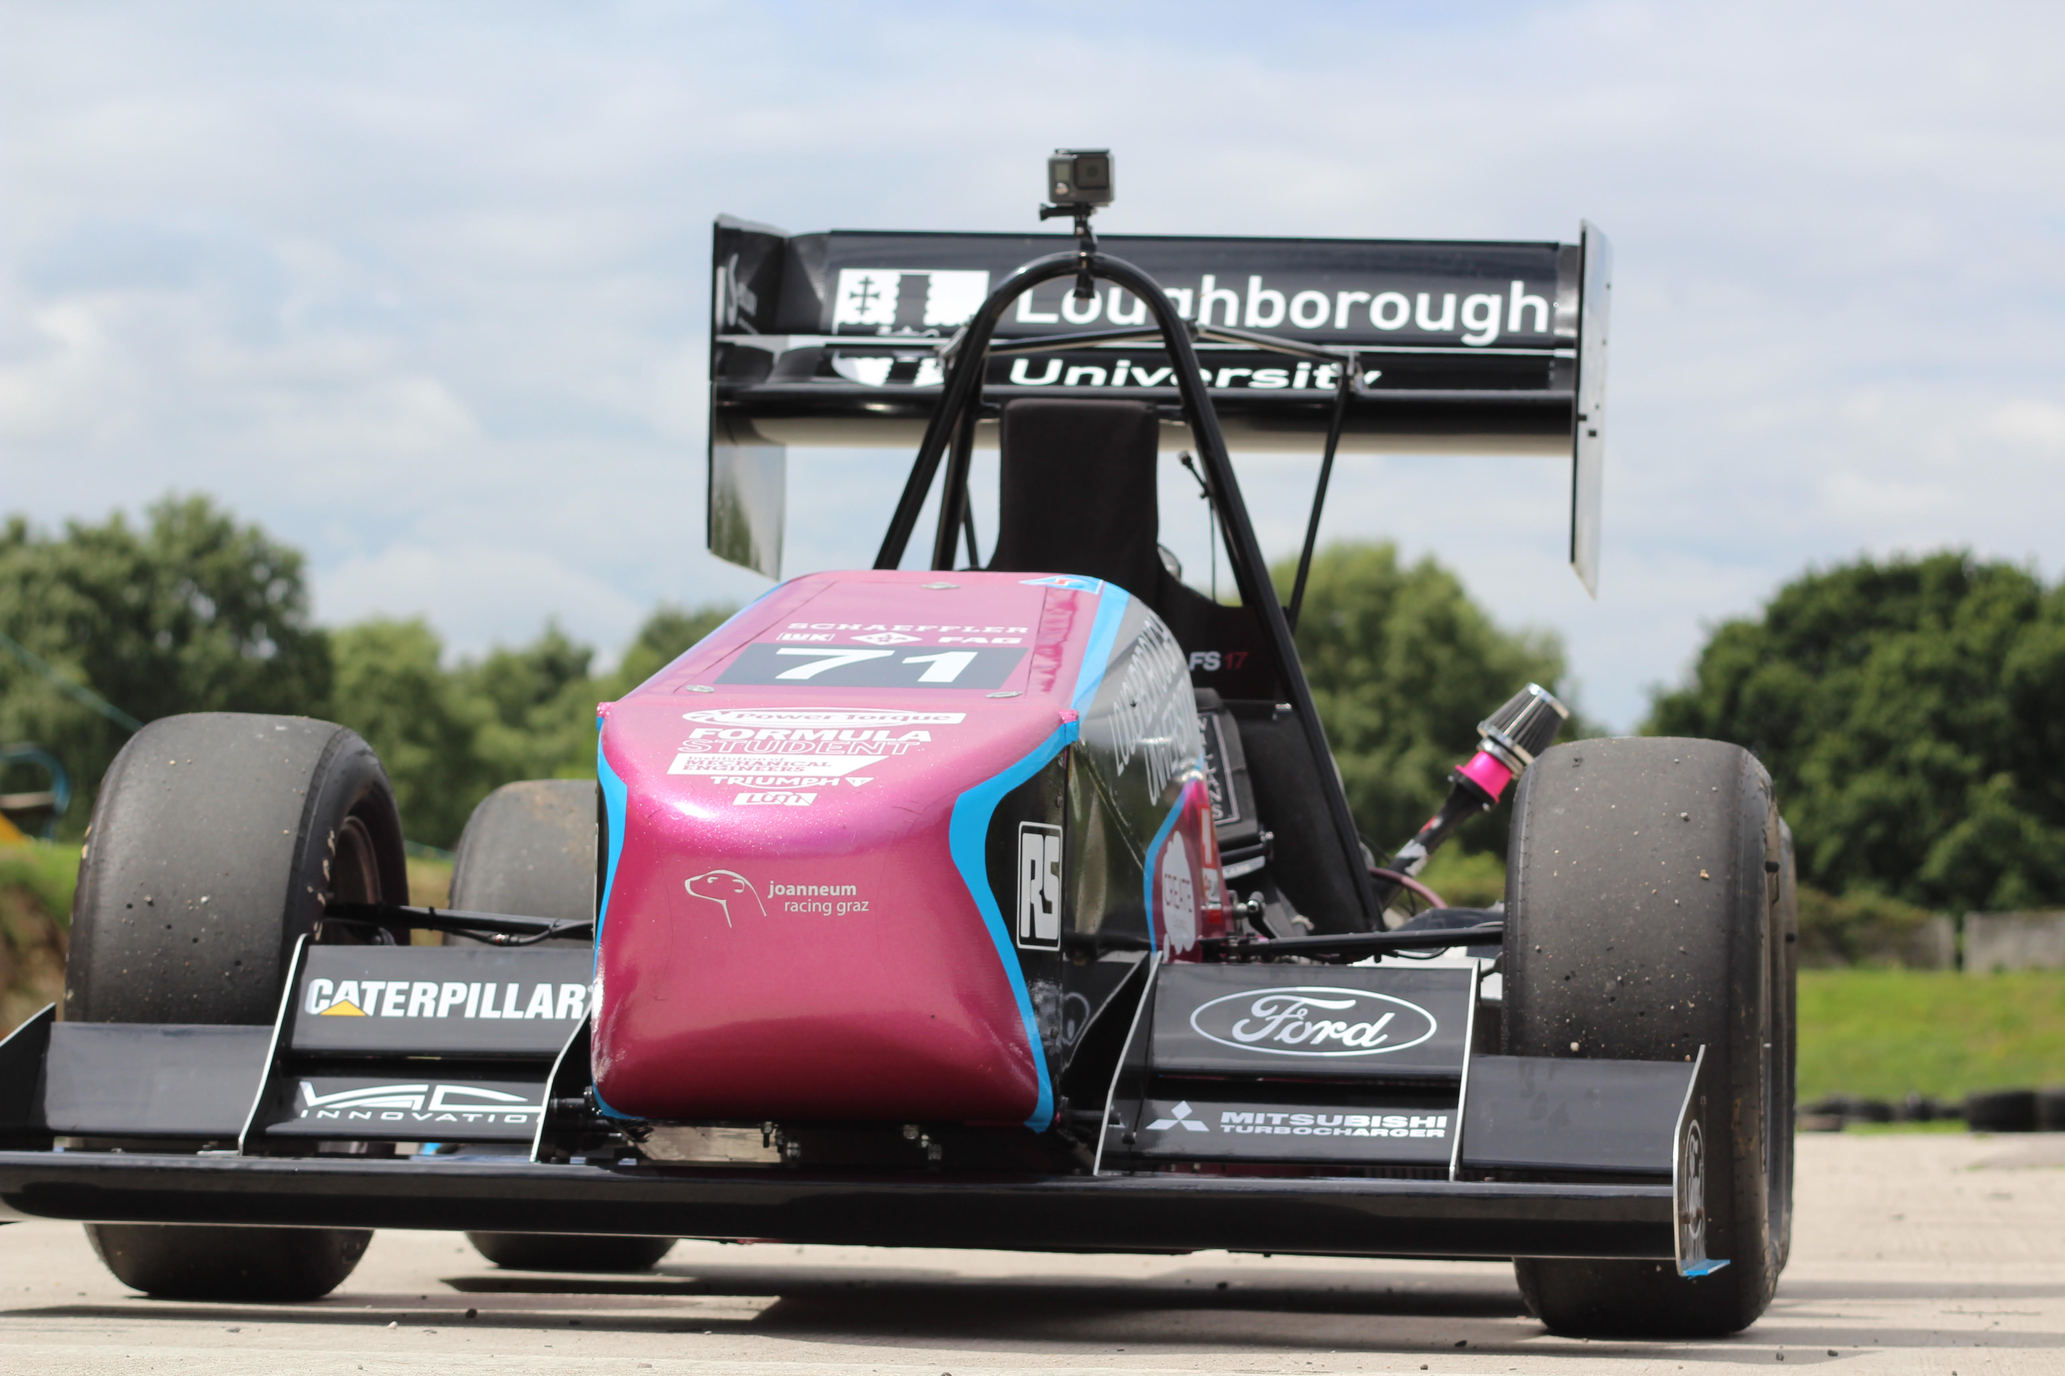
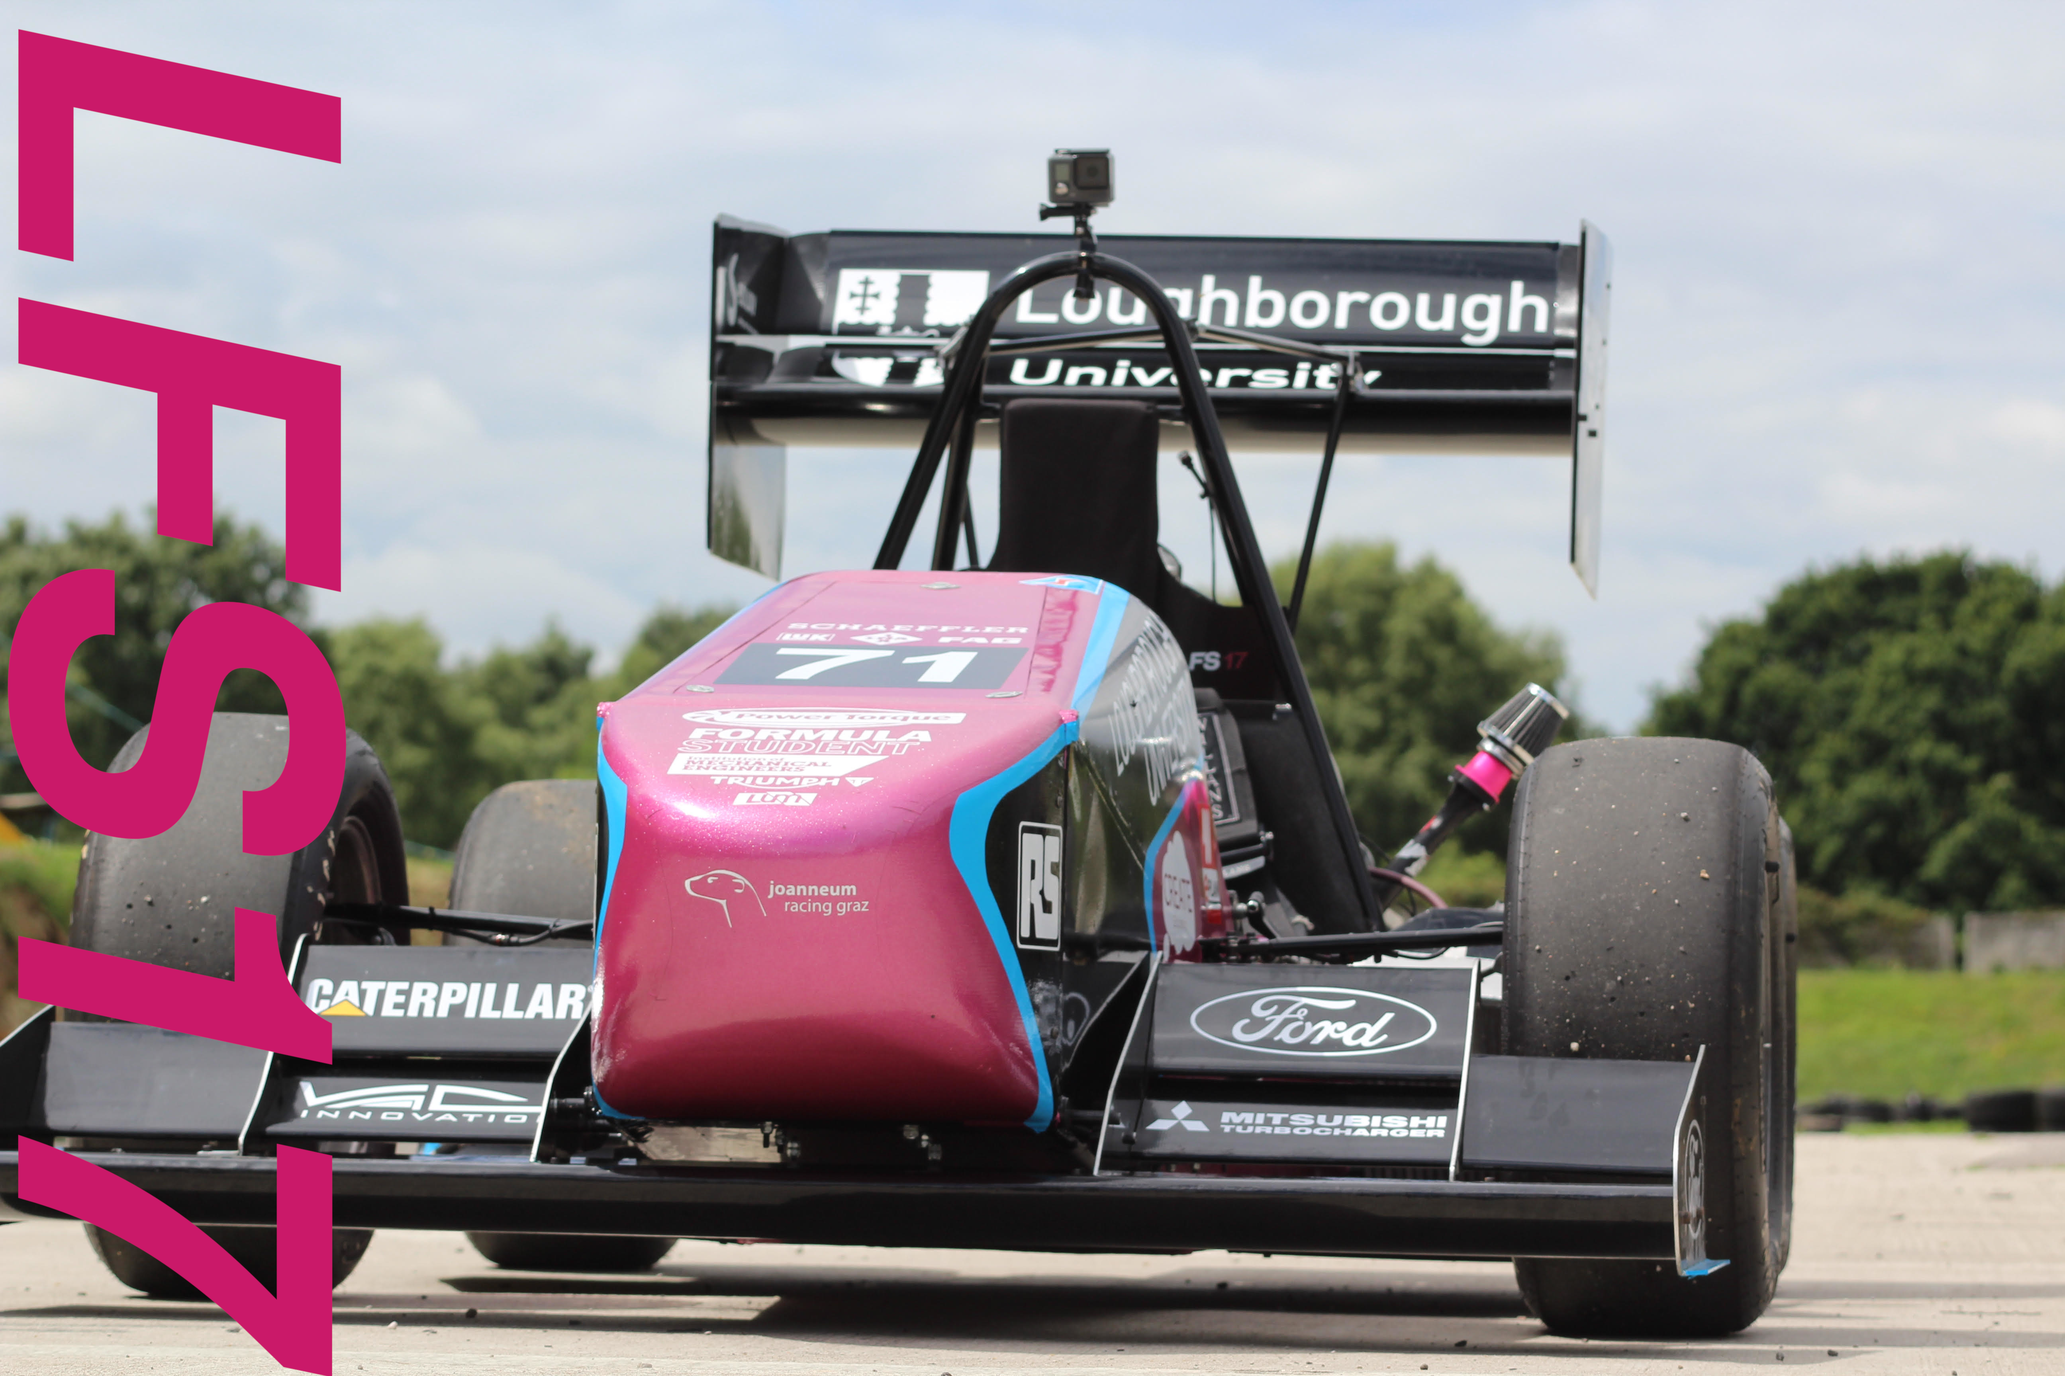
still improving

diff --git a/lum/sponsors.html b/lum/sponsors.html
@@ -24,43 +24,85 @@
         <button class="w3-btn w3-pink w3-xlarge" style="animation:opac 2.5s" onclick="w3_open()">☰ more</button>
     <!-- stuff starts here -->
         <div class="w3-container w3-padding w3-cell-middle" style="text-align: center;">
-            <div class="w3-container w3-third w3-padding-16">
-                <img src="images/kevs-rental.png" alt="Team Leader" style="width:auto; max-width: 50rem; min-width: 15rem;">
+            <div class="w3-container w3-quarter w3-padding-16">
+                <img src="images/sponsors/kevs-rental.png" alt="Team Leader" style="width:auto; height: 5rem; max-width: 50rem; min-width: 15rem;">
                 <div class="w3-container w3-center">
                     <p> Monty joined the team in his first year at Loughborough and became Head of Composites in his second year. He then spent 13 months on placement at Force India Formula One Team within the Research and Development department. </p><br>
                 </div>
                 <br>
             </div>
-            <div class="w3-container w3-third w3-padding-16">
-                <img src="images/kevs-rental.png" alt="Team Leader" style="width:auto; max-width: 50rem; min-width: 15rem;">
+            <div class="w3-container w3-quarter w3-padding-16">
+                <img src="images/sponsors/mct.png" alt="Team Leader" style="width:auto; height: 5rem; max-width: 50rem; min-width: 15rem;">
                 <div class="w3-container w3-center">
                     <p> Monty joined the team in his first year at Loughborough and became Head of Composites in his second year. He then spent 13 months on placement at Force India Formula One Team within the Research and Development department. </p><br>
                 </div>
                 <br>
             </div>
-            <div class="w3-container w3-third w3-padding-16">
-                <img src="images/kevs-rental.png" alt="Team Leader" style="width:auto; max-width: 50rem; min-width: 15rem;">
+            <div class="w3-container w3-quarter w3-padding-16">
+                <img src="images/sponsors/ngk.jpg" alt="Team Leader" style="width:auto; height: 5rem; max-width: 50rem; min-width: 15rem;">
                 <div class="w3-container w3-center">
                     <p> Monty joined the team in his first year at Loughborough and became Head of Composites in his second year. He then spent 13 months on placement at Force India Formula One Team within the Research and Development department. </p><br>
                 </div>
                 <br>
             </div>
-            <div class="w3-container w3-third w3-padding-16">
-                <img src="images/kevs-rental.png" alt="Team Leader" style="width:auto; max-width: 50rem; min-width: 15rem;">
+            <div class="w3-container w3-quarter w3-padding-16">
+                <img src="images/sponsors/rs.png" alt="Team Leader" style="width:auto; height: 5rem; max-width: 50rem; min-width: 15rem;">
                 <div class="w3-container w3-center">
                     <p> Monty joined the team in his first year at Loughborough and became Head of Composites in his second year. He then spent 13 months on placement at Force India Formula One Team within the Research and Development department. </p><br>
                 </div>
                 <br>
             </div>
-            <div class="w3-container w3-third w3-padding-16">
-                <img src="images/kevs-rental.png" alt="Team Leader" style="width:auto; max-width: 50rem; min-width: 15rem;">
+            <div class="w3-container w3-quarter w3-padding-16">
+                <img src="images/sponsors/turbosmart.png" alt="Team Leader" style="width:auto; height: 5rem; max-width: 50rem; min-width: 15rem;">
                 <div class="w3-container w3-center">
                     <p> Monty joined the team in his first year at Loughborough and became Head of Composites in his second year. He then spent 13 months on placement at Force India Formula One Team within the Research and Development department. </p><br>
                 </div>
                 <br>
             </div>
-            <div class="w3-container w3-third w3-padding-16">
-                <img src="images/kevs-rental.png" alt="Team Leader" style="width:auto; max-width: 50rem; min-width: 15rem;">
+            <div class="w3-container w3-quarter w3-padding-16">
+                <img src="images/sponsors/zirotec.png" alt="Team Leader" style="width:auto; height: 5rem; max-width: 50rem; min-width: 15rem;">
+                <div class="w3-container w3-center">
+                    <p> Monty joined the team in his first year at Loughborough and became Head of Composites in his second year. He then spent 13 months on placement at Force India Formula One Team within the Research and Development department. </p><br>
+                </div>
+                <br>
+            </div>
+            <div class="w3-container w3-quarter w3-padding-16">
+                <img src="images/sponsors/kevs-rental.png" alt="Team Leader" style="width:auto; height: 5rem; max-width: 50rem; min-width: 15rem;">
+                <div class="w3-container w3-center">
+                    <p> Monty joined the team in his first year at Loughborough and became Head of Composites in his second year. He then spent 13 months on placement at Force India Formula One Team within the Research and Development department. </p><br>
+                </div>
+                <br>
+            </div>
+            <div class="w3-container w3-quarter w3-padding-16">
+                <img src="images/sponsors/mct.png" alt="Team Leader" style="width:auto; height: 5rem; max-width: 50rem; min-width: 15rem;">
+                <div class="w3-container w3-center">
+                    <p> Monty joined the team in his first year at Loughborough and became Head of Composites in his second year. He then spent 13 months on placement at Force India Formula One Team within the Research and Development department. </p><br>
+                </div>
+                <br>
+            </div>
+            <div class="w3-container w3-quarter w3-padding-16">
+                <img src="images/sponsors/ngk.jpg" alt="Team Leader" style="width:auto; height: 5rem; max-width: 50rem; min-width: 15rem;">
+                <div class="w3-container w3-center">
+                    <p> Monty joined the team in his first year at Loughborough and became Head of Composites in his second year. He then spent 13 months on placement at Force India Formula One Team within the Research and Development department. </p><br>
+                </div>
+                <br>
+            </div>
+            <div class="w3-container w3-quarter w3-padding-16">
+                <img src="images/sponsors/rs.png" alt="Team Leader" style="width:auto; height: 5rem; max-width: 50rem; min-width: 15rem;">
+                <div class="w3-container w3-center">
+                    <p> Monty joined the team in his first year at Loughborough and became Head of Composites in his second year. He then spent 13 months on placement at Force India Formula One Team within the Research and Development department. </p><br>
+                </div>
+                <br>
+            </div>
+            <div class="w3-container w3-quarter w3-padding-16">
+                <img src="images/sponsors/turbosmart.png" alt="Team Leader" style="width:auto; height: 5rem; max-width: 50rem; min-width: 15rem;">
+                <div class="w3-container w3-center">
+                    <p> Monty joined the team in his first year at Loughborough and became Head of Composites in his second year. He then spent 13 months on placement at Force India Formula One Team within the Research and Development department. </p><br>
+                </div>
+                <br>
+            </div>
+            <div class="w3-container w3-quarter w3-padding-16">
+                <img src="images/sponsors/zirotec.png" alt="Team Leader" style="width:auto; height: 5rem; max-width: 50rem; min-width: 15rem;">
                 <div class="w3-container w3-center">
                     <p> Monty joined the team in his first year at Loughborough and became Head of Composites in his second year. He then spent 13 months on placement at Force India Formula One Team within the Research and Development department. </p><br>
                 </div>

diff --git a/lum/car.html b/lum/car.html
@@ -5,6 +5,13 @@
     <title>LUMotorsport</title>
     <meta name="viewport" content="width=device-width, initial-scale=1">
     <link rel="stylesheet" href="styling/main.css">
+    <style>
+    .text_rotate {
+        -webkit-transform: rotate(90deg);  /* Chrome, Opera 15+, Safari 3.1+ */
+        -ms-transform: rotate(90deg);  /* IE 9 */
+        transform: rotate(90deg);  /* Firefox 16+, IE 10+, Opera */
+    }
+    </style>
 </head>
 <body>
     <img src="images/logo.png" alt="Logo" class="w3-display-topright w3-margin" style="width:8rem">
@@ -23,37 +30,26 @@
     <div class="w3-container">
         <button class="w3-btn w3-pink w3-xlarge" style="animation:opac 2.5s" onclick="w3_open()">☰ more</button>
     <!-- stuff starts here -->
-        <div class="w3-container w3-cell-middle">
-            <div class="w3-container w3-third w3-padding-16">
-                <img src="images/lfs17-tiny.jpg" alt="LFS17" style="width:70%; max-width: 50rem; min-width: 15rem;">
-                <div class="w3-container w3-center">
-                    <h2><b>LFS17</b></h2>
-                    <p> Custom Turbocharged Triumph engine, steel and carbon composite frame and 13" wheels</p><br>
-                    <a class="w3-btn w3-pink" href="#">+ More</a>
+        <div class="w3-container">
+            <div class="w3-card w3-third w3-margin">
+                <div class="w3-display-container w3-text-white w3-button">
+                    <img src="images/car1.jpg" class="w3-image" alt="Lights" style="">
                 </div>
             </div>
-            <div class="w3-container w3-third w3-padding-16">
-                <img src="images/lfs16-tiny.jpg" alt="LFS16" style="width:70%; max-width: 50rem; min-width: 15rem;">
-                <div class="w3-container">
-                    <h2><b>LFS16</b></h2>
-                    <p> Custom Turbocharged Triumph engine, steel and carbon composite frame and 13" slicks and wets</p><br>
-                    <a class="w3-btn w3-pink" href="#">+ More</a>
+            <div class="w3-card w3-third w3-margin">
+                <div class="w3-display-container w3-text-white w3-button">
+                    <img src="images/lfs17-tiny.jpg" class="w3-image" alt="Lights" style="">
+
                 </div>
             </div>
-            <div class="w3-container w3-third w3-padding-16">
-                <img src="images/lfs15-tiny.jpg" alt="LFS15" style="width:70%; max-width: 50rem; min-width: 15rem;">
-                <div class="w3-container">
-                    <h2><b>LFS15</b></h2>
-                    <p>Honda CBR engine, steel frame and composite floor, 13" slicks</p><br>
-                    <a class="w3-btn w3-pink" href="#">+ More</a>
+            <div class="w3-card w3-third w3-margin">
+                <div class="w3-display-container w3-text-white w3-button">
+                    <img src="images/lfs16-tiny.jpg" class="w3-image" alt="Lights" style="">
                 </div>
             </div>
-            <div class="w3-container w3-third w3-padding-16">
-                <img src="images/lfs14-tiny.jpg" alt="LFS14" style="width:70%; max-width: 50rem; min-width: 15rem;">
-                <div class="w3-container">
-                    <h2><b>LFS14</b></h2>
-                    <p>Honda CBR engine, steel frame and composite floor, 13" slicks</p><br>
-                    <a class="w3-btn w3-pink" href="#">+ More</a>
+            <div class="w3-card w3-third w3-margin">
+                <div class="w3-display-container w3-text-white w3-button">
+                    <img src="images/lfs15-tiny.jpg" class="w3-image" alt="Lights" style="">
                 </div>
             </div>
         </div>

diff --git a/lum/about.html b/lum/about.html
@@ -29,7 +29,7 @@
         <button class="w3-btn w3-pink w3-xlarge" style="animation:opac 2.5s" onclick="w3_open()">☰ more</button>
         <div class="w3-display-container w3-margin w3-section">
             <div class="w3-container w3-half" style="max-width: 60rem;"><p>
-                <h2> About About LUMotorsport </h2>
+                <h2> About LUMotorsport </h2>
                 <p>
                 LUMotorsport is made up of a number of students studying various degrees from Automotive Engineering to Finance and Business Management. Unlike other Formula Student teams, LUMotorsport is entirely organised and run by the student team members with guidance from the academic and technical staff only when required. This means that the team is not only responsible for producing a brand new car every year, but also all finances, health and safety, as well as the business side of running a motorsport team.
                 This tough task is made even more difficult by the fact that all of the work must be done around the team members on going degree courses.
@@ -53,18 +53,18 @@
                 </div>
             </p></div>
             <div class="w3-content w3-half" style="max-width:60rem; margin-top: 2rem;">
-                <img class="mySlides" src="images/car.jpg" style="width:100%">
-                <img class="mySlides" src="images/car.jpg" style="width:100%">
-                <img class="mySlides" src="images/car.jpg" style="width:100%">
+                <img class="mySlides" src="images/car1.jpg" style="width:100%">
+                <img class="mySlides" src="images/event.jpg" style="width:100%">
+                <img class="mySlides" src="images/car2.jpg" style="width:100%">
                 <div class="w3-row-padding w3-section">
                     <div class="w3-col s3">
-                        <img class="demo w3-opacity w3-hover-opacity-off" src="images/car.jpg" style="width:100%" onclick="currentDiv(1)">
+                        <img class="demo w3-opacity w3-hover-opacity-off" src="images/car1.jpg" style="width:100%" onclick="currentDiv(1)">
                     </div>
                     <div class="w3-col s3">
-                        <img class="demo w3-opacity w3-hover-opacity-off" src="images/car.jpg" style="width:100%" onclick="currentDiv(2)">
+                        <img class="demo w3-opacity w3-hover-opacity-off" src="images/event.jpg" style="width:100%" onclick="currentDiv(2)">
                     </div>
                     <div class="w3-col s3">
-                        <img class="demo w3-opacity w3-hover-opacity-off" src="images/car.jpg" style="width:100%" onclick="currentDiv(3)">
+                        <img class="demo w3-opacity w3-hover-opacity-off" src="images/car2.jpg" style="width:100%" onclick="currentDiv(3)">
                     </div>
                 </div>
             </div>

diff --git a/lum/team.html b/lum/team.html
@@ -24,28 +24,28 @@
         <button class="w3-btn w3-pink w3-xlarge" style="animation:opac 2.5s" onclick="w3_open()">☰ more</button>
     <!-- stuff starts here -->
         <div class="w3-container w3-cell-middle w3-margin-top" style="text-align: center;">
-            <div class="w3-container w3-pale-green w3-quarter w3-padding-16">
+            <div class="w3-container w3-quarter w3-padding-16">
                 <img src="images/monty.jpg" alt="Team Leader" style="width:auto; max-width: 50rem; min-width: 15rem;">
                 <div class="w3-container w3-center">
                     <h2><b> Team Leader </b><br> Monty Jeacock-Fewtrell</h2>
                     <p> Automotive Engineering MEng DIS, Part D </p>
                 </div>
             </div>
-            <div class="w3-container w3-pale-green w3-quarter w3-padding-16">
+            <div class="w3-container w3-quarter w3-padding-16">
                 <img src="images/josh.jpg" alt="Team Leader" style="width:auto; max-width: 50rem; min-width: 15rem;">
                 <div class="w3-container w3-center">
                     <h2><b> Deputy Team Leader </b><br> Josh Harris</h2>
                     <p> Automotive Engineering MEng DIS, Part C </p>
                 </div>
             </div>
-            <div class="w3-container w3-pale-red w3-quarter w3-padding-16">
+            <div class="w3-container w3-quarter w3-padding-16">
                 <img src="images/dom.jpg" alt="Team Leader" style="width:auto; max-width: 50rem; min-width: 15rem;">
                 <div class="w3-container w3-center">
                     <h2><b> Head of Suspension </b><br> Dominic Sutcliffe</h2>
                     <p> Automotive Engineering, MEng Part D </p>
                 </div>
             </div>
-            <div class="w3-container w3-pale-green w3-quarter w3-padding-16">
+            <div class="w3-container w3-quarter w3-padding-16">
                 <img src="images/kieran.jpg" alt="Team Leader" style="width:auto; max-width: 50rem; min-width: 15rem;">
                 <div class="w3-container w3-center">
                     <h2><b> Head of Powertrain </b><br> Kieran Barker</h2>
